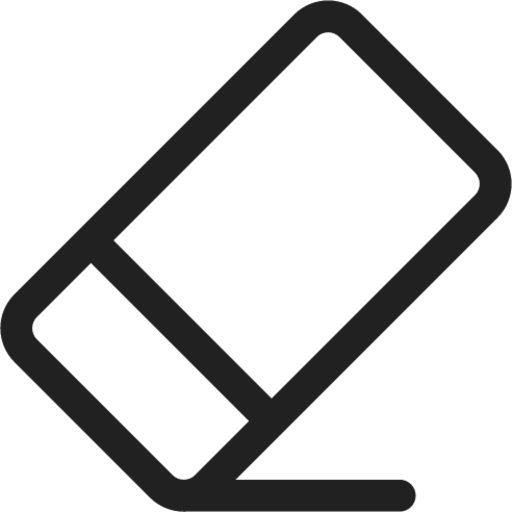
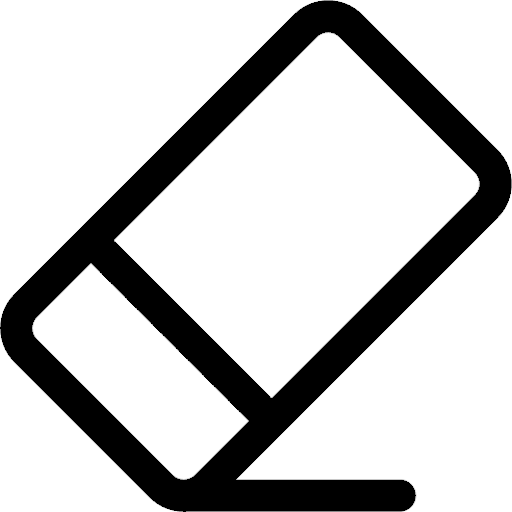
Light/Dark Mode Update
+ Added Corresponding icon themes
+ Added borders to light-mode
+ Added statements for creating cards
# Working on toggle button design

Changed region(s): [[0.0, 0.0, 1.0, 1.0]]

diff --git a/Note-Winter/frontend/my-app/src/views/Dashboard.js b/Note-Winter/frontend/my-app/src/views/Dashboard.js
@@ -5,6 +5,9 @@ import React, { useState, useEffect } from 'react';
 import pencil from '../images/pencil-button.png';
 import eraser from '../images/eraser-button.png';
 import color from '../images/color-palette.png';
+import lightpencil from '../images/light-pencil-button.png';
+import lighteraser from '../images/light-eraser-button.png';
+import lightcolor from '../images/light-color-palette.png';
 import axios from 'axios';
 
 const api = axios.create({
@@ -253,18 +256,18 @@ function Dashboard() {
             onChange={handleHeaderChange}
             type="text"
             placeholder="Note Header"
-            style={{ height: "5vh", width: "100vh" }}
+            style={{ height: "5vh", width: "100vh",backgroundColor: darkMode ? "#F8F9FA": "white"}}
           />
           <textarea
             value={note}
             onChange={handleNoteChange}
             placeholder="Leave a note here"
             id="floatingTextarea"
-            style={{ height: "10vh", width: "100vh", }}>
+            style={{ height: "10vh", width: "100vh",backgroundColor: darkMode ? "#F8F9FA": "white" }}>
           </textarea>
           <div className="button-container">
             <button onClick={handleClick}>
-              <img src={pencil} alt="Download" style={{ width: '50px', height: '50px' }} />
+              <img src={darkMode ? lightpencil: pencil} alt="Download" style={{width: '50px', height: '50px',}} />
             </button>
           </div>
         </div>
@@ -277,9 +280,9 @@ function Dashboard() {
             <div className="note-container">
               {
                 noteList.map((note, i) => (
-                  <div key={i} className="card bg-light mb-3" style={{ width: "45vh", }}>
+                  <div key={i} className="card bg-light mb-3" style={{ width: "45vh",  borderColor: darkMode ? "#121212" : "unset" }}>
                     {/*====HEADER-TEXT====*/}
-                    <div id={`card-header-${i}`} className="card-header" style={{ backgroundColor: darkMode ? darkColorPicker[note.colorIndex].header : colorPicker[note.colorIndex].header }}>
+                    <div id={`card-header-${i}`} className="card-header" style={{ backgroundColor: darkMode ? darkColorPicker[note.colorIndex].header : colorPicker[note.colorIndex].header, borderColor: darkMode ? "#121212" : "unset" }}>
                       {note.header}
                     </div>
                     <div id={`card-body-${i}`} className="card-body" style={{ backgroundColor: darkMode ? darkColorPicker[note.colorIndex].body : colorPicker[note.colorIndex].body }}>
@@ -289,7 +292,7 @@ function Dashboard() {
                           <React.Fragment key={j}>
                             {j > 0 && <br />}
                             {/* {<input type="checkbox" className="form-check-input" style={{ position: "relative", left: "-1vh" }} />} */}
-                            {<label id="note-text" className="form-check-label">{lineNote}</label>}
+                            {<label id="note-text" style={{color: darkMode ? "white":"unset"}} className="form-check-label">{lineNote}</label>}
                           </React.Fragment>
                         ))}
                       </p>
@@ -298,11 +301,11 @@ function Dashboard() {
                     <div style={{ display: "flex", marginTop: "0px", backgroundColor: darkMode ? darkColorPicker[note.colorIndex].body : colorPicker[note.colorIndex].body }}>
                       {/* ==== DELETE BUTTON ==== */}
                       <button onClick={() => handleDelete(note)} style={{ left: "10px", marginRight: "2.5vh", top: "-2vh", position: "relative" }}>
-                        <img src={eraser} alt="Download" style={{ width: '25px', height: '25px' }} />
+                        <img src={darkMode ? lighteraser: eraser} alt="Download" style={{ width: '25px', height: '25px' }} />
                       </button>
                       {/* ==== COLOR CHANGE BUTTON ==== */}
                       <button onClick={() => handleColorChange(note, i)} style={{ position: "relative", top: "-2vh" }}>
-                        <img src={color} alt="Change-Color" style={{ width: '25px', height: '25px' }} />
+                        <img src={darkMode ? lightcolor: color} alt="Change-Color" style={{ width: '25px', height: '25px' }} />
                       </button>
                     </div>
                   </div>

diff --git a/Note-Winter/frontend/my-app/src/CSS/Dashboard.css b/Note-Winter/frontend/my-app/src/CSS/Dashboard.css
@@ -4,7 +4,7 @@
   justify-content: center;
   min-height: 100vh;
   text-align: center;
-  /* background-color: #121212; */
+  /* background-color: purple; */
   background-color: #faf8de;
 /* color: white; */
   
